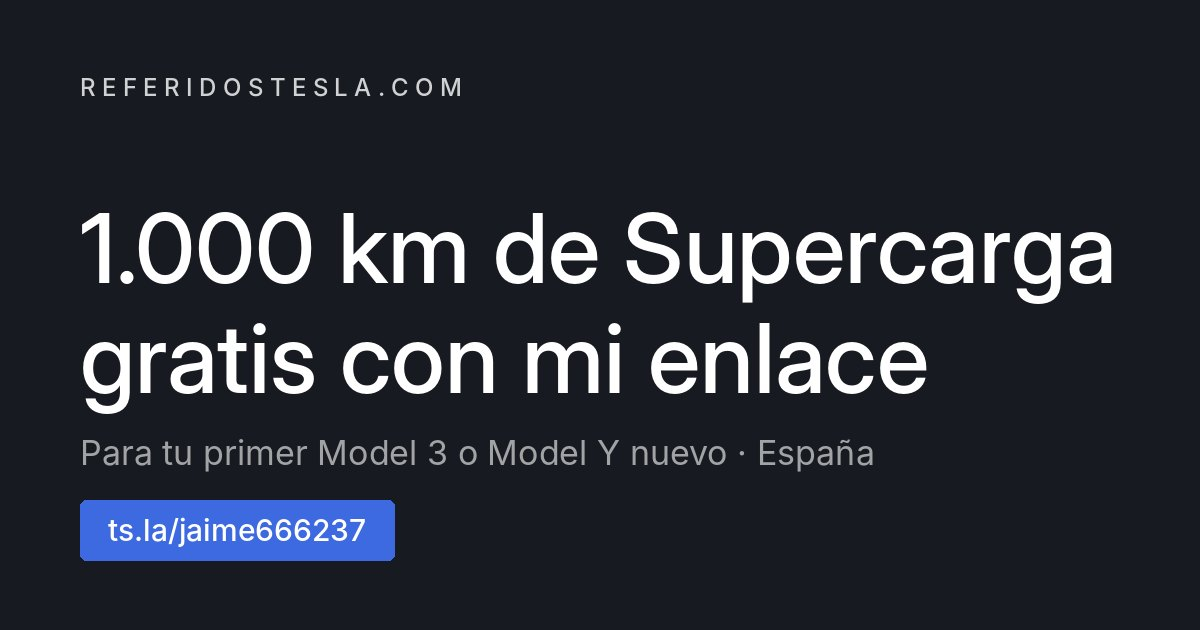
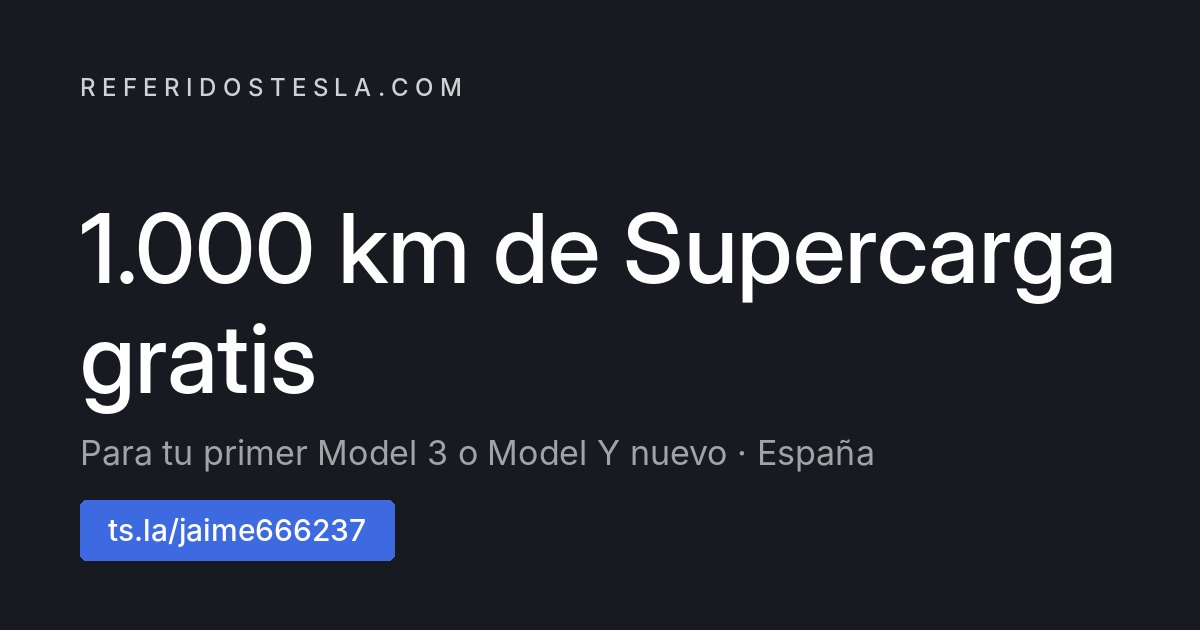
Simplificar hero y quitar el bloque de ventajas
- H1 sin "con mi enlace" (también en el JSON-LD y la imagen OG).
- Botón de la cabecera: "Configurador".
- Fuera la caja con ts.la y el botón Copiar (y su JS y CSS).
- Las cifras rápidas pasan a una línea: "1.000 km para utilizar en 12 meses".
- Fuera la sección "Los dos recibimos lo mismo" y sus enlaces del menú y el footer.

Claude-Session: https://claude.ai/code/session_01HpTi5CknoXv2k2ycf9cmC3

Changed region(s): [[0.2775, 0.5127, 0.7708, 0.6333]]

diff --git a/index.html b/index.html
@@ -43,7 +43,7 @@
       "@type": "WebPage",
       "@id": "https://referidostesla.com/#webpage",
       "url": "https://referidostesla.com/",
-      "name": "Referidos Tesla: 1.000 km de Supercarga gratis con mi enlace",
+      "name": "Referidos Tesla: 1.000 km de Supercarga gratis",
       "isPartOf": { "@id": "https://referidostesla.com/#website" },
       "inLanguage": "es-ES",
       "datePublished": "2026-10-20",
@@ -193,25 +193,17 @@ html:not(.js) .menu-btn{display:none}
 .answer strong{color:#fff;font-weight:500}
 .hero-ctas{margin-top:32px;display:flex;flex-direction:column;gap:12px;width:100%;max-width:400px}
 .hero-ctas .btn{width:100%}
-.linkbox{display:flex;align-items:center;justify-content:space-between;height:var(--btn-h);padding:0 4px 0 16px;border-radius:var(--radius);background:#fff;color:var(--color-text)}
-.linkbox a{font-weight:500;text-decoration:none;color:var(--color-ink);font-variant-numeric:tabular-nums;overflow:hidden;text-overflow:ellipsis}
-.linkbox a:hover{text-decoration:underline}
-.copy-btn{height:32px;min-width:84px;padding:0 14px;border:0;border-radius:var(--radius);background:var(--color-surface);color:var(--color-ink);font:500 var(--fs-body)/1 var(--font);cursor:pointer;transition:background-color var(--dur) var(--ease)}
-.copy-btn:hover{background:#E4E4E4}
-.copy-btn.is-done{background:var(--color-ink);color:#fff}
 .seal{display:inline-block;margin-top:24px;padding:6px 12px;border-radius:999px;background:rgba(23,26,32,.5);-webkit-backdrop-filter:blur(8px);backdrop-filter:blur(8px);font-size:var(--fs-legal);color:rgba(255,255,255,.85)}
 .seal::before{content:"";display:inline-block;vertical-align:middle;width:6px;height:6px;margin:-2px 8px 0 0;border-radius:50%;background:#4CC38A}
 .seal-dark{background:var(--color-surface);color:var(--color-text)}
-.stats{position:relative;display:grid;grid-template-columns:repeat(3,1fr);gap:8px;max-width:var(--maxw);width:100%;margin:0 auto;padding:24px var(--gutter) calc(32px + env(safe-area-inset-bottom));border-top:1px solid rgba(255,255,255,.1)}
-.stats div{display:flex;flex-direction:column-reverse;align-items:center;text-align:center;gap:4px}
-.stats dt{font-size:var(--fs-legal);color:var(--color-on-dark-muted)}
-.stats dd{margin:0;font-size:19px;line-height:26px;white-space:nowrap;font-weight:500;color:#fff;font-variant-numeric:tabular-nums}
+.stats{display:flex;flex-wrap:wrap;justify-content:center;align-items:baseline;gap:2px 12px;max-width:var(--maxw);margin:0 auto;padding:22px var(--gutter) calc(26px + env(safe-area-inset-bottom));text-align:center;font-size:17px;line-height:24px;color:rgba(255,255,255,.85)}
+.stats strong{font-size:28px;line-height:36px;font-weight:500;color:#fff;font-variant-numeric:tabular-nums}
 @media (min-width:600px){
   .hero h1{font-size:44px;line-height:50px}
-  .stats dd{font-size:32px;line-height:40px}
+  .stats strong{font-size:32px;line-height:40px}
 }
 @media (min-width:900px){
-  .hero-stage{min-height:max(560px,calc(100vh - 128px));min-height:max(560px,calc(100svh - 128px))}
+  .hero-stage{min-height:max(560px,calc(100vh - 100px));min-height:max(560px,calc(100svh - 100px))}
   .hero-media{position:absolute;inset:0;height:auto}
   .hero-media img{height:100%;aspect-ratio:auto;object-position:50% 72%}
   .hero-media::after{content:"";position:absolute;inset:0;background:linear-gradient(to bottom,rgba(0,0,0,.62) 0,rgba(0,0,0,.38) 30%,rgba(0,0,0,0) 52%),linear-gradient(to top,rgba(0,0,0,.5) 0,rgba(0,0,0,0) 26%)}
@@ -221,7 +213,8 @@ html:not(.js) .menu-btn{display:none}
   .answer{font-size:18px;line-height:28px;max-width:58em;color:rgba(255,255,255,.85)}
   .hero-ctas{flex-direction:row;justify-content:center;max-width:none}
   .hero-ctas>*{width:var(--btn-min-w)!important;flex:0 0 auto}
-  .stats dd{font-size:40px;line-height:48px}
+  .stats{font-size:20px;line-height:28px}
+  .stats strong{font-size:40px;line-height:48px}
 }
 
 /* Sections */
@@ -236,17 +229,6 @@ html:not(.js) .menu-btn{display:none}
 .section-head.center{text-align:center}
 .section-head.center .lead{margin-left:auto;margin-right:auto}
 
-/* Benefit cards */
-.cards{display:grid;gap:16px}
-@media (min-width:900px){.cards{grid-template-columns:1fr 1fr}}
-.card{border-radius:var(--radius-card);padding:32px;min-height:340px;display:flex;flex-direction:column;background:var(--color-surface)}
-.card-dark{background:var(--color-ink);color:var(--color-on-dark-muted)}
-.card .tag{font-size:var(--fs-body);font-weight:500}
-.card .big{margin-top:auto;padding-top:48px;font-size:56px;line-height:60px;font-weight:500;color:var(--color-ink);font-variant-numeric:tabular-nums}
-.card h3{margin-top:8px;font-size:20px;line-height:28px}
-.card p{margin-top:8px;font-size:15px;line-height:22px;max-width:46ch}
-.card-dark h3,.card-dark .big{color:#fff}
-@media (min-width:900px){.card{padding:40px;min-height:420px}.card .big{font-size:72px;line-height:76px}}
 
 /* Steps */
 .steps{list-style:none;margin:0;padding:0;display:grid;gap:16px}
@@ -337,12 +319,11 @@ html:not(.js) .menu-btn{display:none}
   <div class="header-in">
     <a class="logo" href="/" aria-label="referidostesla.com, inicio">referidostesla.com</a>
     <nav class="nav" aria-label="Principal">
-      <a href="#ventajas">Ventajas</a>
       <a href="#como-funciona">Cómo funciona</a>
       <a href="#condiciones">Condiciones</a>
       <a href="#preguntas">Preguntas</a>
     </nav>
-    <a class="btn btn-primary btn-sm header-cta" href="https://ts.la/jaime666237" rel="nofollow noopener" target="_blank">Usar mi enlace</a>
+    <a class="btn btn-primary btn-sm header-cta" href="https://ts.la/jaime666237" rel="nofollow noopener" target="_blank">Configurador</a>
     <button class="menu-btn" type="button" aria-controls="menu" aria-expanded="false">Menú</button>
   </div>
 </header>
@@ -350,7 +331,6 @@ html:not(.js) .menu-btn{display:none}
 <div class="panel" id="menu" role="dialog" aria-modal="true" aria-label="Menú" hidden>
   <button class="panel-close" type="button" aria-label="Cerrar menú">✕</button>
   <ul>
-    <li><a href="#ventajas">Ventajas</a></li>
     <li><a href="#como-funciona">Cómo funciona</a></li>
     <li><a href="#condiciones">Condiciones</a></li>
     <li><a href="#preguntas">Preguntas</a></li>
@@ -367,52 +347,20 @@ html:not(.js) .menu-btn{display:none}
     </div>
     <div class="hero-main">
       <p class="eyebrow">Programa Recomendar y ganar · España</p>
-      <h1 id="h1">Referidos Tesla: 1.000 km de Supercarga gratis con mi enlace</h1>
+      <h1 id="h1">Referidos Tesla: 1.000 km de Supercarga gratis</h1>
       <p class="answer">Si compras tu primer Tesla Model 3 o Model Y nuevo desde un enlace de recomendación, recibes <strong>1.000 km de Supercarga gratis</strong>. Abre el enlace antes de hacer el pedido: después ya no se puede añadir.</p>
 
       <div class="hero-actions">
       <div class="hero-ctas">
         <a class="btn btn-primary btn-lg" href="https://ts.la/jaime666237" rel="nofollow noopener" target="_blank">Configurar mi Tesla con 1.000 km</a>
-        <div class="linkbox">
-          <a href="https://ts.la/jaime666237" rel="nofollow noopener" target="_blank">ts.la/jaime666237</a>
-          <button class="copy-btn" type="button" data-copy="https://ts.la/jaime666237">Copiar</button>
-        </div>
       </div>
-      <p class="sr-only" aria-live="polite" id="copy-status"></p>
 
       <p class="seal">Condiciones comprobadas el <time datetime="2026-10-20">20/10/2026</time></p>
       </div>
     </div>
     </div>
 
-    <dl class="stats" aria-label="Datos rápidos">
-      <div><dt>Comprador</dt><dd>1.000 km</dd></div>
-      <div><dt>Recomendador</dt><dd>1.000 km</dd></div>
-      <div><dt>Caducan</dt><dd>12 meses</dd></div>
-    </dl>
-  </section>
-
-  <section class="section" id="ventajas" aria-labelledby="h-ventajas">
-    <div class="wrap">
-      <div class="section-head reveal">
-        <h2 id="h-ventajas">Los dos recibimos lo mismo</h2>
-        <p class="lead">Tesla da la ventaja a quien compra y a quien recomienda. El precio del coche no cambia.</p>
-      </div>
-      <div class="cards">
-        <article class="card card-dark reveal">
-          <p class="tag">Tú, al comprar</p>
-          <p class="big">1.000 km</p>
-          <h3>Supercarga gratis en tu primer Tesla.</h3>
-          <p>Para tu primer Model 3 o Model Y nuevo. Los km aparecen en la app cuando recibes el coche y caducan a los 12 meses.</p>
-        </article>
-        <article class="card reveal">
-          <p class="tag">Yo, al recomendarte</p>
-          <p class="big">1.000 km</p>
-          <h3>Supercarga gratis para mí.</h3>
-          <p>Lo pone Tesla, no tú. No hay pagos ni regalos extra entre nosotros: las condiciones del programa lo prohíben.</p>
-        </article>
-      </div>
-    </div>
+    <p class="stats"><strong>1.000 km</strong> para utilizar en 12 meses</p>
   </section>
 
   <section class="section section-alt" id="como-funciona" aria-labelledby="h-pasos">
@@ -546,7 +494,6 @@ html:not(.js) .menu-btn{display:none}
 <footer class="footer">
   <div class="wrap">
     <nav aria-label="Pie de página">
-      <a href="#ventajas">Ventajas</a>
       <a href="#como-funciona">Cómo funciona</a>
       <a href="#condiciones">Condiciones</a>
       <a href="#preguntas">Preguntas</a>
@@ -583,15 +530,6 @@ html:not(.js) .menu-btn{display:none}
   panel.querySelectorAll('a[href^="#"]').forEach(function(a){a.addEventListener('click',function(){setMenu(false)})});
   document.addEventListener('keydown',function(e){if(e.key==='Escape'&&!panel.hidden)setMenu(false)});
 
-  var status=document.getElementById('copy-status');
-  document.querySelectorAll('[data-copy]').forEach(function(b){
-    b.addEventListener('click',function(){
-      var text=b.getAttribute('data-copy');
-      function done(){b.textContent='Copiado';b.classList.add('is-done');status.textContent='Enlace copiado';setTimeout(function(){b.textContent='Copiar';b.classList.remove('is-done');status.textContent=''},2000)}
-      if(navigator.clipboard&&window.isSecureContext){navigator.clipboard.writeText(text).then(done,fallback)}else{fallback()}
-      function fallback(){var t=document.createElement('textarea');t.value=text;t.setAttribute('readonly','');t.style.position='absolute';t.style.left='-9999px';document.body.appendChild(t);t.select();try{document.execCommand('copy');done()}catch(err){}document.body.removeChild(t)}
-    });
-  });
 })();
 </script>
 </body>
